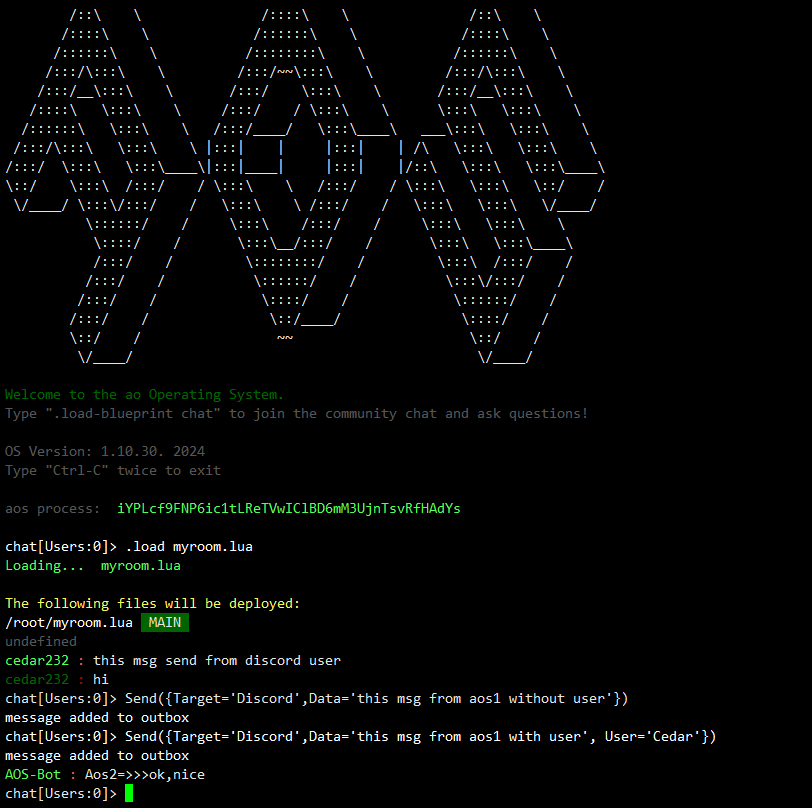
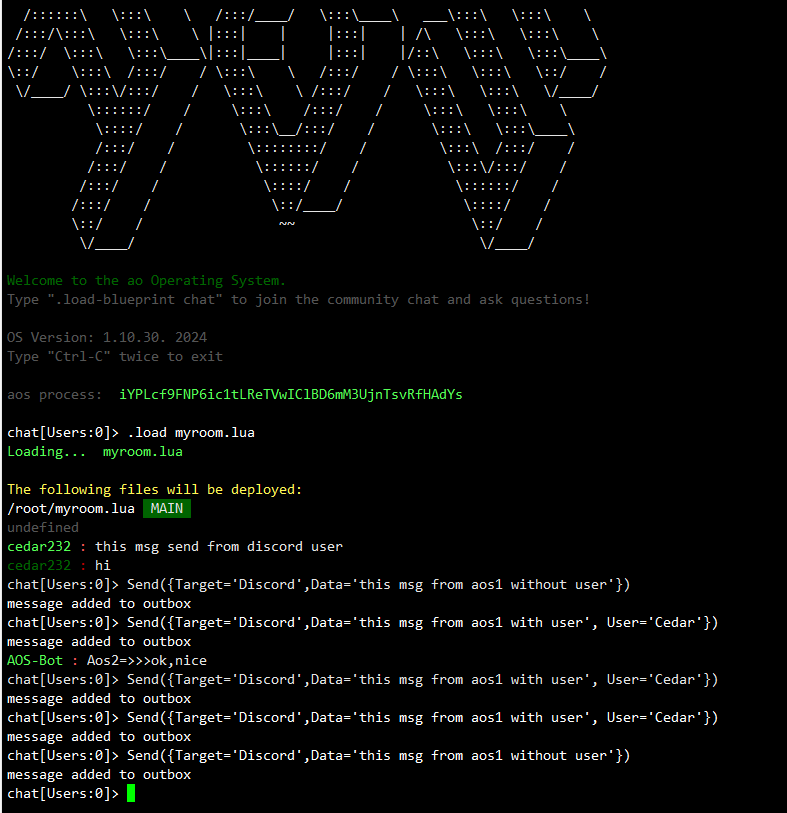
update

diff --git a/README.md b/README.md
@@ -8,7 +8,7 @@ This program need ws、fs、express、discord.js、@permaweb/aoconnect
 
 <h1> Use </h1>
 
-1. replace yours `channel_id` `token` `process_id` in `index.js` and `server.js`
+1. replace yours `channel_id` `token` `process_id` `botName` in `index.js` and `server.js`
 
 
 2. first run `node server.js` 
@@ -55,6 +55,7 @@ changed as
         }
 ```
 <h1> Img </h1>
+The print content has now been updated to show the name or pid you defined when you sent it instead of your bot name。
 
 aos1 terminal:
 
